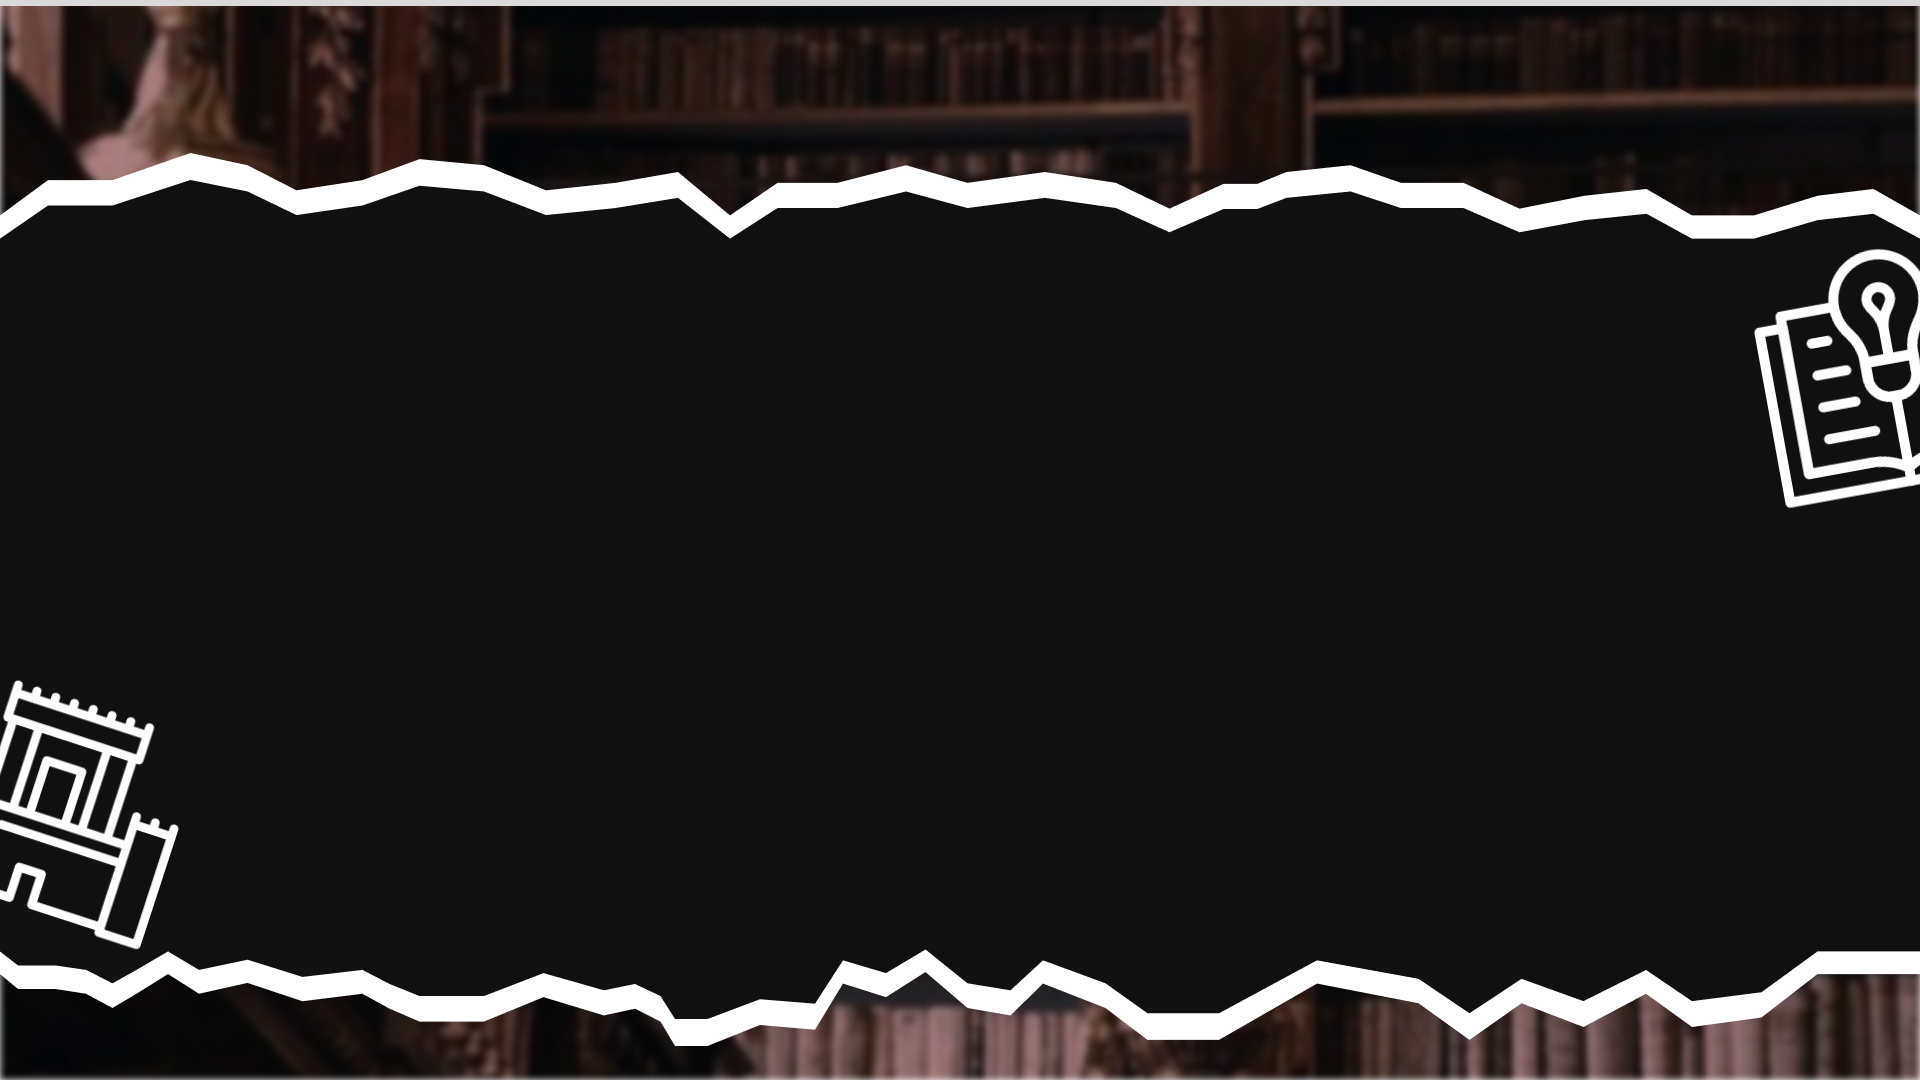
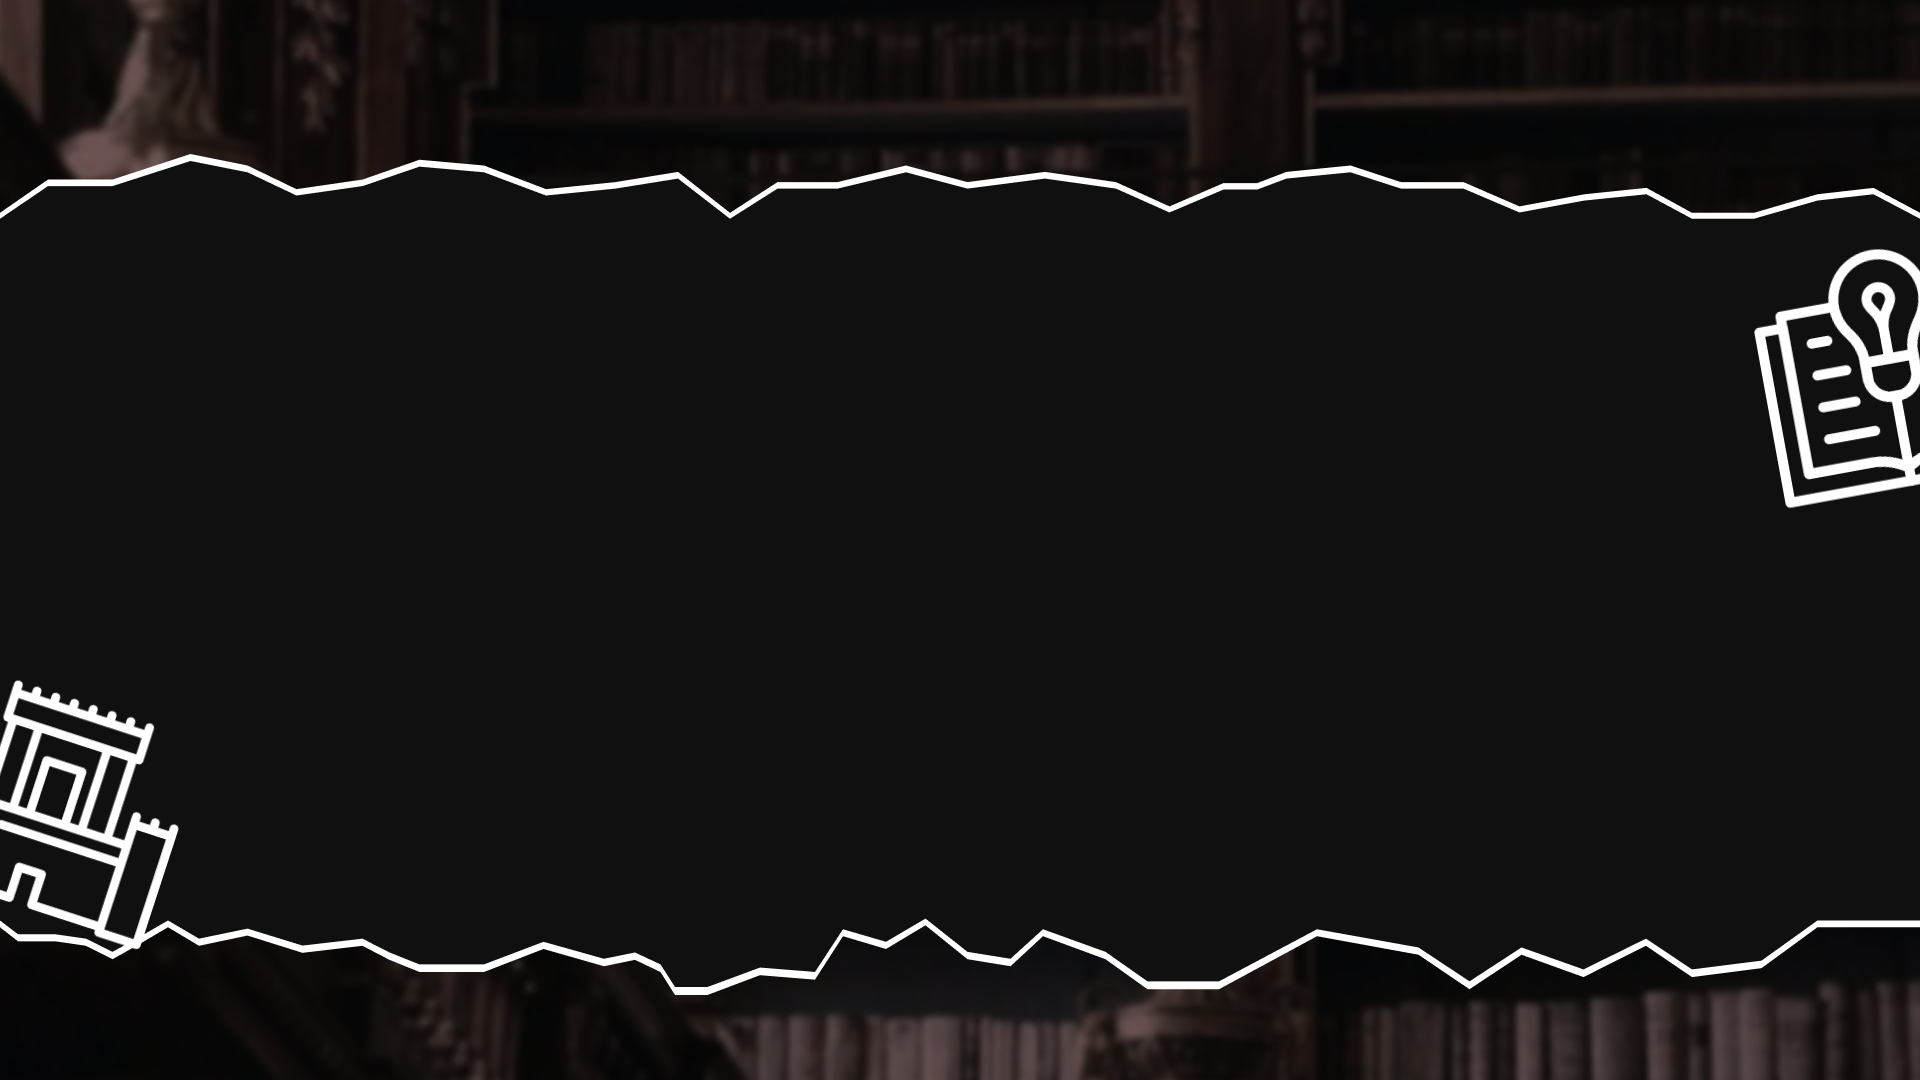
Adição das informações do site no web data viz

diff --git a/Desenvolvimento/Site/Site Institucional/css/style.css b/Desenvolvimento/Site/Site Institucional/css/style.css
@@ -94,7 +94,7 @@ main{
 
     .section_separador{
         width: 100%;
-        height: 3px;
+        height: 2px;
         background-color: #ffffff solid;
     }
 
@@ -212,7 +212,7 @@ main{
     & #section_missao{
         width: 100%;
         height: 750px;
-        background-image: url("../assets/Fundo.png");
+        background-image: url("../assets/Fundo_missao.png");
         background-size: cover;
         background-repeat: no-repeat;
         background-position: center;
@@ -261,6 +261,66 @@ main{
         }
     }
 
+    & #section_carrocel{
+        width: 100%;
+        height: 670px;
+        background-color: #101010;
+        display: flex;
+        flex-direction: column;
+        padding: 20px;
+
+        & #carrocel{
+            display: flex;
+            align-items: center;
+            flex-direction: row;
+            overflow: hidden;
+            width: 100%;
+
+            & #direcionadordirecionador_proverbios{
+                display: flex;
+                transition: transform 0.5s ease-in-out;
+
+                & #bar_versiculos{
+                    min-width: 100%;
+                    flex-shrink: 0;
+                    display: flex;
+                    justify-content: center;
+                    align-items: center;
+                }
+
+                & .bar_versiculos img {
+                    width: 80%;
+                    border-radius: 10px;
+                    box-shadow: 0 4px 10px rgba(0, 0, 0, 0.2);
+            }
+
+            & #nav-btn{
+                position: absolute;
+                top: 50%;
+                transform: translateY(-50%);
+                background-color: #101010;
+                color: #fff;
+                border: none;
+                padding: 10px 20px;
+                font-size: 20px;
+                cursor: pointer;
+                z-index: 10;
+            }
+
+            & #prev-btn{
+                left: 10px;
+            }
+
+            & #next-btn {
+                right: 10px;
+            }
+
+            & .nav-btn:hover {
+                background-color: #444;
+            }
+        }
+    }
+
     & #section_sobre_mim{
         width: 100%;
         height: 750px;
@@ -292,6 +352,7 @@ main{
             padding-right: 40px;
         }
     }
+}
 }
 
 footer{

diff --git a/Desenvolvimento/Site/Site Institucional/index.html b/Desenvolvimento/Site/Site Institucional/index.html
@@ -114,6 +114,49 @@
 
         <div class="section_separador"></div>
 
+        <!-- SECTION CARROCEL -->
+        <section id="section_carrocel">
+            <div id="titulo">
+                <p>Navegue em um mar de sabedoria!</p>
+                <div>
+                    <img src="assets/Separador.png">
+                </div>
+            </div>
+
+            <div id="carrocel">
+                <button class="nav-btn" id="prev-btn"><img src=""></button>
+                <div id="direcionador_proverbios">
+                    <div class="bar_versiculos" id="conselhos_de_um_pai">
+                        <img src="">
+                    </div>
+    
+                    <div class="bar_versiculos" id="clamor_da_sabedoria">
+                        <img src="">
+                    </div>
+    
+                    <div class="bar_versiculos" id="proverbios_de_salomao">
+                        <img src="">
+                    </div>
+    
+                    <div class="bar_versiculos" id="ditados_dos_sabios">
+                        <img src="">
+                    </div>
+    
+                    <div class="bar_versiculos" id="dotados_de_agur">
+                        <img src="">
+                    </div>
+    
+                    <div class="bar_versiculos" id="ditados_rei_lemuel">
+                        <img src="">
+                    </div>
+                    <button class="nav-btn" id="next-btn"><img src=""></button>
+                </div>
+            </div>
+        </section>
+        <!-- SECTION CARROCEL -->
+
+        <div class="section_separador"></div>
+
         <!-- SECTION SOBRE MIM -->
         <section id="section_sobre_mim">
             <div id="informacoes">
